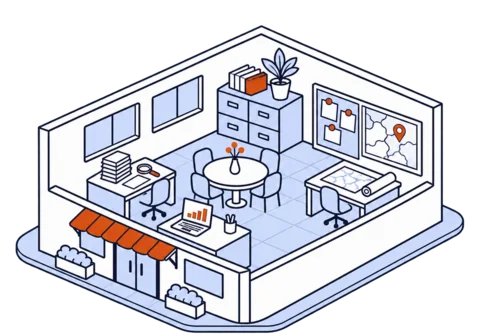
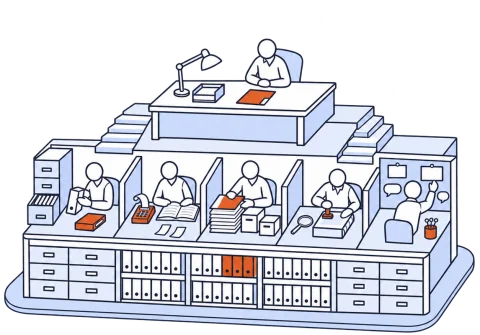
feat(web): redraw the agents illustration with one supervisor and five specialists

diff --git a/web/src/app/page.tsx b/web/src/app/page.tsx
@@ -265,7 +265,7 @@ function Agents() {
           </div>
         </div>
         <div className="agents__panel reveal" style={{ "--d": "0.1s" } as React.CSSProperties}>
-          <Art name="investigacion" crop sizes="(min-width: 900px) 55vw, 90vw" alt="Dibujo isométrico de una oficina, sin personas: una mesa redonda con sillas y un escritorio con un portátil, donde se consultan las fuentes." />
+          <Art name="investigacion" sizes="(min-width: 900px) 55vw, 90vw" alt="Dibujo isométrico de una oficina en tres niveles: arriba, una figura sin rostro en el escritorio del supervisor; en medio, cinco figuras sin rostro, cada una en su puesto con archivos, libros, carpetas, un sello y un tablero; abajo, una pared de archivos. Las figuras representan a los agentes de software, no a personas." />
           <div className="mini" role="img" aria-label={`Un supervisor envía a cinco especialistas a consultar fuentes oficiales: ${names.join(", ")}.`}>
             <div className="mini__sup" aria-hidden="true">Supervisor</div>
             <div className="mini__line" aria-hidden="true" />

diff --git a/web/src/components/Art.tsx b/web/src/components/Art.tsx
@@ -4,7 +4,7 @@ export type ArtName = "hero" | "datos" | "investigacion" | "verificacion" | "vac
 export const ART_ALT: Record<ArtName, string> = {
   hero: "Dibujo isométrico de una plaza pública con un edificio municipal, una obra con grúa y un camión de reparto: lo que compra el Estado.",
   datos: "Dibujo isométrico de un archivo con estantes de carpetas y cajas: los datos abiertos de contratación.",
-  investigacion: "Dibujo isométrico de una oficina con una mesa central y varios puestos de trabajo, sin personas: los especialistas que consultan las fuentes.",
+  investigacion: "Dibujo isométrico de una oficina en tres niveles: una figura sin rostro en el escritorio del supervisor, cinco figuras sin rostro en sus puestos y una pared de archivos. Las figuras representan a los agentes de software, no a personas.",
   verificacion: "Dibujo isométrico de una oficina de registro público con un mostrador, un sello y filas de archivadores: la fuente oficial.",
   vacio: "Dibujo isométrico de un terreno vacío con una cerca y un letrero en blanco.",
 };

diff --git a/docs/BRAND.md b/docs/BRAND.md
@@ -112,7 +112,7 @@ Subjects:
 |---|---|---|
 | `hero` | a small public square: a modest town hall with columns, a construction site with a crane, a delivery truck on a road. "What the State buys: works, goods and services." Terracotta only on the truck and the crane | Home hero |
 | `datos` | an archive building cut away to show rows of filing shelves with boxes and binders, a loading ramp and stacked boxes outside. "Open public data" | Step 1, "Elige un proceso" |
-| `investigacion` | a desk office with a central round table and four distinct work stations (papers and magnifying glass; laptop and chart; filing cabinet; map and pinboard), no people | "Investiga con agentes" |
+| `investigacion` | an office in three stepped levels: one larger desk on a raised platform, a row of exactly five booths (filing cabinet with binders; adding machine and ledger; stack of folders and boxes; magnifying glass, bound report and stamp; pinboard with blank cards and speech bubbles) and a wall of archive drawers at the front, with one faceless figure at each of the six desks. Replaced the first version on 2026-11-17 (see the note below) | "Investiga con agentes" |
 | `verificacion` | a public registry office with a service counter, glass partition, stamp, rope stanchions and filing drawers, no people, no writing | Step 3, "Verifica en la fuente oficial" |
 | `vacio` | an empty fenced lot with a bare tree, a blank sign post and a few stones | Empty states and the 404 |
 
@@ -120,7 +120,9 @@ All five came back at 1254 × 1254 with a real alpha channel on the first attemp
 
 No image contains or implies a real entity, person or brand. The one UI mockup on the home page (the sample "Oferente único" card) is drawn in HTML and CSS, as the Ruray guide asks for mockups, and carries the label "Ejemplo ilustrativo, no es un proceso real."
 
-Rules to keep: ink outlines and white fills only, terracotta on a few elements, no people or faces, no text in the image (text is always HTML), upper third empty, one scale across the set. Always look at an image before using it and reject anything that reads as a toy or does not match the references.
+The `investigacion` image was redone on 2026-11-17. The first version asked for four stations and no figures, so it could not show one supervisor and five specialists and had to be cropped on the home page so that nobody counted the desks. The founder chose a version with six faceless figures because an empty office did not read as agents at work. The figures stand for software agents, not for people, and the `alt` text says so. This is the only illustration with figures.
+
+Rules to keep: ink outlines and white fills only, terracotta on a few elements, no faces, no figures except the faceless ones in `investigacion`, no text in the image (text is always HTML), upper third empty, one scale across the set. Always look at an image before using it and reject anything that reads as a toy or does not match the references.
 
 ## Voice
 
@@ -139,7 +141,7 @@ Rules to keep: ink outlines and white fills only, terracotta on a few elements, 
 | Monospace for codes and labels | Rejected by the founder as the "dark tech" look. Tabular figures in Plus Jakarta Sans instead. |
 | Gradients, glows, grid backgrounds, shadows with colour | Rejected outright by the founder. |
 | Hues outside ice, ink and terracotta (red/amber/green traffic lights, a teal accent) | Not in the palette. A traffic-light scale would also read as a verdict, against the contract. The scale goes from ice-deep to ink and keeps terracotta for the top band. |
-| Mascots, characters, robots, people in illustrations | Rejected by the founder (Ruray guide, "Rejected directions"). The specialists are drawn as work stations, not as figures. |
+| Mascots, characters, robots, people in illustrations | Rejected by the founder (Ruray guide, "Rejected directions"). One exception since 2026-11-17: the faceless figures in `investigacion`, chosen by the founder. No mascots, robots or faces anywhere. |
 | Stock images, other image generators | The brand method is Codex with the Ruray maquetas as references. |
 | Screenshots of Ruray apps or client work | Not Veedor's to show. |
 | Chart libraries | Bars are plain HTML lists with the value as text. |
